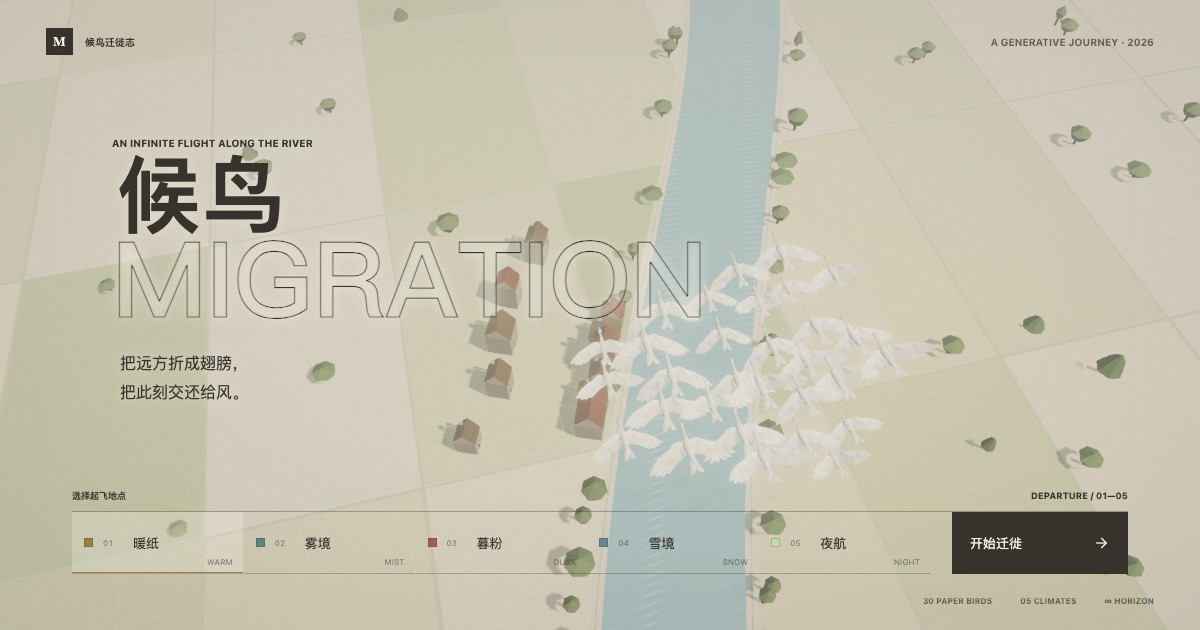
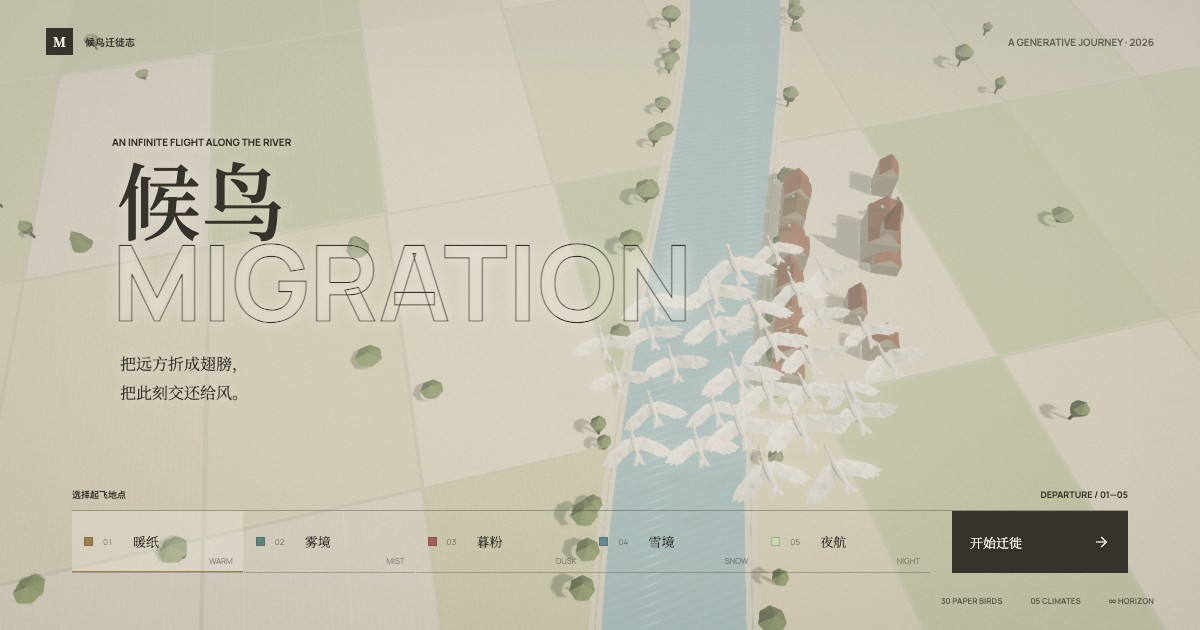
fix(migration-showcase): 修正字体路径导致全站字体 404
assetPrefix 原为 './'，使构建产物的 CSS 中字体被写成 url(./static/font/x.woff2)。
CSS 内部的相对 URL 是相对该 CSS 文件解析的，因此实际请求变成
/static/css/static/font/x.woff2，105 处字体全部 404，页面静默回退到系统字体。
该问题在站点根部署下同样存在，与子目录无关。

改为构建器默认的 'auto'，按资源间相对位置输出 url(../../static/font/x.woff2)，
根部署与子目录部署均正确。经真实浏览器验证，控制台错误由 17 条降为 0 条。

og-migration.jpg 由 verify:visual 重新生成：原图是在字体 404 状态下产出的，
使用的是回退字体，本次更新后排版正确。

diff --git a/migration-showcase/rsbuild.config.ts b/migration-showcase/rsbuild.config.ts
@@ -7,7 +7,12 @@ export default defineConfig({
     template: './index.html',
   },
   output: {
-    assetPrefix: './',
+    // 必须是 'auto'（即 Rsbuild 默认值），由构建器按资源之间的相对位置计算路径。
+    // 不能写成 './'：那会把 CSS 里的字体写成 url(./static/font/x.woff2)，而 CSS
+    // 内部的相对 URL 是相对该 CSS 文件解析的，最终会请求到
+    // /static/css/static/font/x.woff2 而全部 404，字体静默回退成系统字体。
+    // 'auto' 会写成 ../font/x.woff2，在站点根与子目录部署下都正确。
+    assetPrefix: 'auto',
     distPath: {
       root: 'dist',
     },
